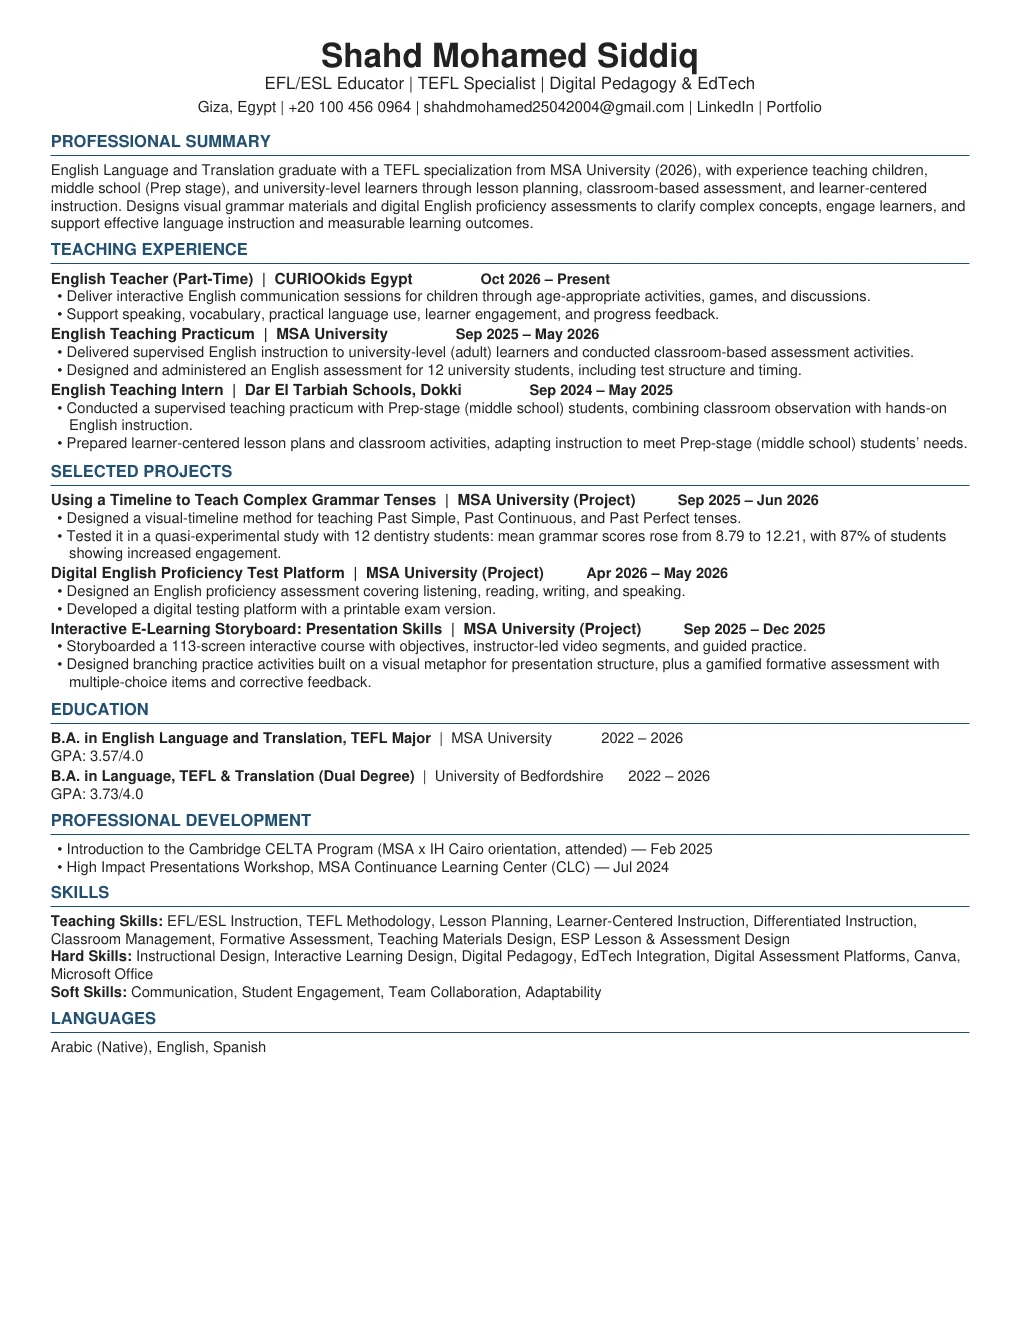
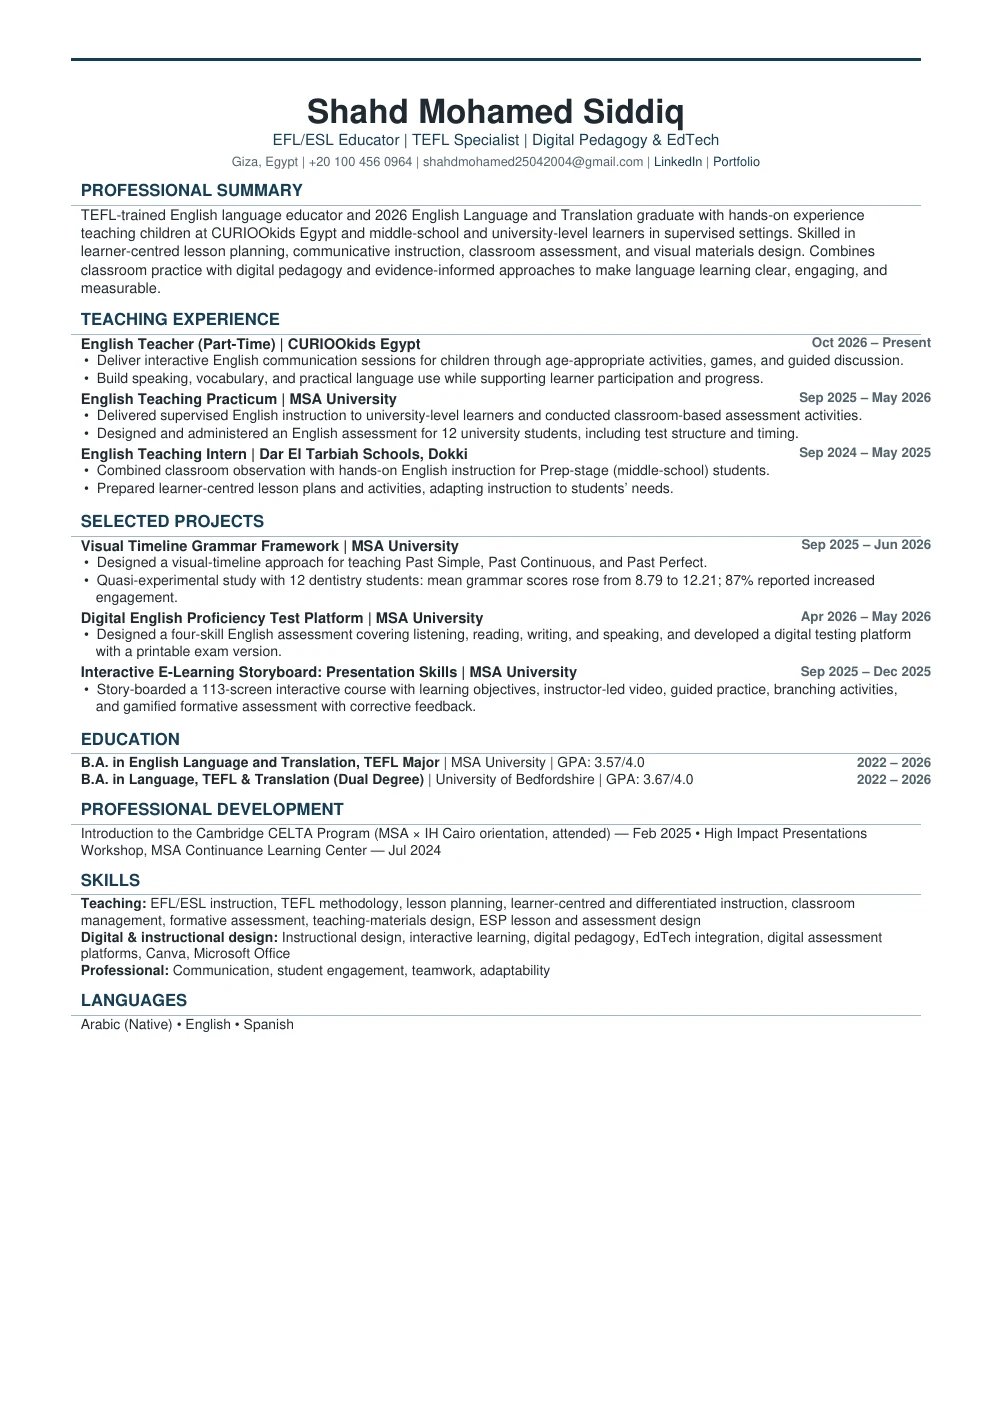
Update CV with current teaching role and corrected GPA (#24)
* Update CV with current teaching role and corrected GPA

* Replace public student ID image with fictional portfolio card

* Restore original portfolio card image

---------

Changed region(s): [[0.0312, 0.0311, 0.9366, 0.8076]]

diff --git a/index.html b/index.html
@@ -3170,7 +3170,7 @@ html[dir="rtl"] .contact-links{justify-content:flex-start;}
       <div class="materials-grid in-view" id="materialsGrid">
         <a class="material-card reveal-item in-view" href="https://drive.google.com/drive/folders/1IlVHD_heQUisdcgzNAmCAjcgaJ_GM0nq" target="_blank" rel="noopener noreferrer"><span class="mname">Certificates</span></a>
         <a class="material-card reveal-item in-view" href="https://drive.google.com/drive/folders/1_SgYq2bi8oCfyzkCNLl3ZWqLtBG197CM" target="_blank" rel="noopener noreferrer"><span class="mname">Feedback</span></a>
-        <a class="material-card reveal-item in-view" href="https://drive.google.com/file/d/16cr1k7iVTIZNDKl5tGr97EFSB0j0kQf6/view?usp=drivesdk" target="_blank" rel="noopener noreferrer"><span class="mname">Resume (CV)</span></a>
+        <a class="material-card reveal-item in-view" href="https://shahdmohamed2004.github.io/portfolio/assets/shahd-cv.pdf" target="_blank" rel="noopener noreferrer"><span class="mname">Resume (CV)</span></a>
         <a class="material-card reveal-item in-view" href="https://drive.google.com/drive/folders/1zHdqDdbPUsbgA7wvTLmoMu3spNnbPXPA" target="_blank" rel="noopener noreferrer"><span class="mname">Research papers</span></a>
         <a class="material-card reveal-item in-view" href="https://drive.google.com/drive/folders/1g0XnzDUJwKrmgcFmbgFSgwUHkl_kAXGK" target="_blank" rel="noopener noreferrer"><span class="mname">Practical Work Videos</span></a>
         <a class="material-card reveal-item in-view" href="https://drive.google.com/drive/folders/1d2hgaLe5ASKrY-Op27gsmu6wMyygF70A" target="_blank" rel="noopener noreferrer"><span class="mname">Projects</span></a>
@@ -3331,7 +3331,7 @@ const SITE = {
 
   // Core links — update these once and every button across the site follows.
   links: {
-    cv: "https://drive.google.com/file/d/16cr1k7iVTIZNDKl5tGr97EFSB0j0kQf6/view?usp=drivesdk",
+    cv: "https://shahdmohamed2004.github.io/portfolio/assets/shahd-cv.pdf",
     portfolioFolder: "https://drive.google.com/drive/folders/1_SgYq2bi8oCfyzkCNLl3ZWqLtBG197CM",
     linkedin: "https://www.linkedin.com/in/shahd-mohamed-5b2525294/",
     email: "shahdmohamed25042004@gmail.com",
@@ -3348,7 +3348,7 @@ const SITE = {
 
   about: {
     photo: "assets/about.webp", // optimized local asset, always renders without a Drive dependency
-    bio: "I am a TEFL graduate currently working part-time as an English Teacher at CURIOOkids Egypt. I am developing practical experience in English language education, instructional design, assessment, and digital learning projects. My academic and practical experience includes English teaching practice, ESP lesson design, active learning, visual instructional materials, and digital educational projects.",
+    bio: "I am a TEFL-trained English language educator and 2026 English Language and Translation graduate, currently working part-time as an English Teacher at CURIOOkids Egypt. My experience spans teaching children, supervised university and middle-school teaching, learner-centred lesson planning, classroom assessment, visual materials, ESP, and digital learning projects.",
   },
 
   whatIDo: [
@@ -3458,7 +3458,7 @@ const SITE = {
   materials: [
     { title: "Certificates", href: "https://drive.google.com/drive/folders/1IlVHD_heQUisdcgzNAmCAjcgaJ_GM0nq" },
     { title: "Feedback", href: "https://drive.google.com/drive/folders/1_SgYq2bi8oCfyzkCNLl3ZWqLtBG197CM" },
-    { title: "Resume (CV)", href: "https://drive.google.com/file/d/16cr1k7iVTIZNDKl5tGr97EFSB0j0kQf6/view?usp=drivesdk" },
+    { title: "Resume (CV)", href: "https://shahdmohamed2004.github.io/portfolio/assets/shahd-cv.pdf" },
     { title: "Research papers", href: "https://drive.google.com/drive/folders/1zHdqDdbPUsbgA7wvTLmoMu3spNnbPXPA" },
     { title: "Practical Work Videos", href: "https://drive.google.com/drive/folders/1g0XnzDUJwKrmgcFmbgFSgwUHkl_kAXGK" },
     { title: "Projects", href: "https://drive.google.com/drive/folders/1d2hgaLe5ASKrY-Op27gsmu6wMyygF70A" }
@@ -3573,7 +3573,7 @@ const SITE_AR = {
 
   about: {
     photo: SITE.about.photo,
-    bio: "أنا خريجة TEFL وأعمل حاليًا معلمة لغة إنجليزية بدوام جزئي في CURIOOkids Egypt. وأسعى إلى تطوير مساري في تعليم اللغة الإنجليزية، مع خبرة أكاديمية وعملية في تصميم دروس ESP، والتعلّم النشط، والمواد التعليمية البصرية، وتصميم التقييم، والمشروعات التعليمية الرقمية."
+    bio: "أنا معلمة لغة إنجليزية مؤهلة بتخصص TEFL وخريجة اللغة الإنجليزية والترجمة لعام 2026، وأعمل حاليًا بدوام جزئي في CURIOOkids Egypt. تشمل خبرتي تدريس الأطفال والتدريب العملي مع طلاب المرحلة الإعدادية والجامعة، وتخطيط الدروس المتمحورة حول المتعلم، والتقييم الصفي، وتصميم المواد البصرية ومشروعات التعلم الرقمي."
   },
 
   whatIDo: [
@@ -3676,7 +3676,7 @@ const SITE_AR = {
   materials: [
     { title: "الشهادات", href: "https://drive.google.com/drive/folders/1IlVHD_heQUisdcgzNAmCAjcgaJ_GM0nq" },
     { title: "التغذية الراجعة", href: "https://drive.google.com/drive/folders/1_SgYq2bi8oCfyzkCNLl3ZWqLtBG197CM" },
-    { title: "السيرة الذاتية (CV)", href: "https://drive.google.com/file/d/16cr1k7iVTIZNDKl5tGr97EFSB0j0kQf6/view?usp=drivesdk" },
+    { title: "السيرة الذاتية (CV)", href: "https://shahdmohamed2004.github.io/portfolio/assets/shahd-cv.pdf" },
     { title: "الأبحاث", href: "https://drive.google.com/drive/folders/1zHdqDdbPUsbgA7wvTLmoMu3spNnbPXPA" },
     { title: "فيديوهات العمل الميداني", href: "https://drive.google.com/drive/folders/1g0XnzDUJwKrmgcFmbgFSgwUHkl_kAXGK" },
     { title: "المشاريع", href: "https://drive.google.com/drive/folders/1d2hgaLe5ASKrY-Op27gsmu6wMyygF70A" }

diff --git a/scripts.bundle.js b/scripts.bundle.js
@@ -732,7 +732,7 @@
       enlarge:'Tap the page for a closer look', zoom:'Read the page or switch to 100% for more detail.',
       error:'The preview could not load. You can still download the original PDF below.',
       alt:'Shahd Mohamed Siddiq — original CV, page 1 of 1',
-      fileTitle:'Shahd Mohamed · CV', info:'PDF · 1 page · 5 KB', page:'Page 1 of 1', fit:'Fit width', full:'100%',
+      fileTitle:'Shahd Mohamed · CV', info:'PDF · 1 page', page:'Page 1 of 1', fit:'Fit width', full:'100%',
       trigger:'Download CV', short:'Preview CV'
     },
     ar: {
@@ -743,7 +743,7 @@
       enlarge:'اضغط على الورقة لقراءة التفاصيل', zoom:'اقرأ الصفحة، أو اختر 100% لتكبير التفاصيل.',
       error:'تعذّر تحميل المعاينة. يمكنك تحميل ملف PDF الأصلي من الزر بالأسفل.',
       alt:'السيرة الذاتية الأصلية لشهد محمد صديق — صفحة ١ من ١',
-      fileTitle:'شهد محمد · السيرة الذاتية', info:'PDF · صفحة واحدة · 46 KB', page:'صفحة ١ من ١', fit:'ملاءمة العرض', full:'100%',
+      fileTitle:'شهد محمد · السيرة الذاتية', info:'PDF · صفحة واحدة', page:'صفحة ١ من ١', fit:'ملاءمة العرض', full:'100%',
       trigger:'تحميل السيرة الذاتية', short:'معاينة السيرة الذاتية'
     }
   };

diff --git a/cv-printer.js b/cv-printer.js
@@ -33,7 +33,7 @@
       enlarge:'Tap the page for a closer look', zoom:'Read the page or switch to 100% for more detail.',
       error:'The preview could not load. You can still download the original PDF below.',
       alt:'Shahd Mohamed Siddiq — original CV, page 1 of 1',
-      fileTitle:'Shahd Mohamed · CV', info:'PDF · 1 page · 46 KB', page:'Page 1 of 1', fit:'Fit width', full:'100%',
+      fileTitle:'Shahd Mohamed · CV', info:'PDF · 1 page', page:'Page 1 of 1', fit:'Fit width', full:'100%',
       trigger:'Print my CV', short:'Preview CV'
     },
     ar: {
@@ -44,7 +44,7 @@
       enlarge:'اضغط على الورقة لقراءة التفاصيل', zoom:'اقرأ الصفحة، أو اختر 100% لتكبير التفاصيل.',
       error:'تعذّر تحميل المعاينة. يمكنك تحميل ملف PDF الأصلي من الزر بالأسفل.',
       alt:'السيرة الذاتية الأصلية لشهد محمد صديق — صفحة ١ من ١',
-      fileTitle:'شهد محمد · السيرة الذاتية', info:'PDF · صفحة واحدة · 46 KB', page:'صفحة ١ من ١', fit:'ملاءمة العرض', full:'100%',
+      fileTitle:'شهد محمد · السيرة الذاتية', info:'PDF · صفحة واحدة', page:'صفحة ١ من ١', fit:'ملاءمة العرض', full:'100%',
       trigger:'اطبع سيرتي الذاتية', short:'معاينة السيرة الذاتية'
     }
   };

diff --git a/tools/build_cv.py b/tools/build_cv.py
@@ -1,0 +1,113 @@
+#!/usr/bin/env python3
+"""Build Shahd Mohamed's one-page, ATS-friendly CV PDF and web preview."""
+from pathlib import Path
+from io import BytesIO
+from reportlab.lib import colors
+from reportlab.lib.enums import TA_CENTER, TA_LEFT, TA_RIGHT
+from reportlab.lib.pagesizes import A4
+from reportlab.lib.styles import ParagraphStyle, getSampleStyleSheet
+from reportlab.lib.units import mm
+from reportlab.platypus import SimpleDocTemplate, Paragraph, Spacer, Table, TableStyle, KeepTogether
+from PIL import Image
+import subprocess
+
+ROOT = Path(__file__).resolve().parents[1]
+ASSETS = ROOT / "assets"
+PDF = ASSETS / "shahd-cv.pdf"
+PREVIEW = ASSETS / "shahd-cv-preview.webp"
+NAVY = colors.HexColor("#173D54")
+INK = colors.HexColor("#202A31")
+MUTED = colors.HexColor("#52636D")
+RULE = colors.HexColor("#9FB6C2")
+
+styles = getSampleStyleSheet()
+styles.add(ParagraphStyle(name="Name", fontName="Helvetica-Bold", fontSize=20, leading=22, alignment=TA_CENTER, textColor=INK, spaceAfter=2))
+styles.add(ParagraphStyle(name="Tagline", fontName="Helvetica", fontSize=9.2, leading=11, alignment=TA_CENTER, textColor=NAVY, spaceAfter=3))
+styles.add(ParagraphStyle(name="Contact", fontName="Helvetica", fontSize=7.7, leading=9, alignment=TA_CENTER, textColor=MUTED, spaceAfter=5))
+styles.add(ParagraphStyle(name="SectionCV", fontName="Helvetica-Bold", fontSize=10, leading=11.8, textColor=NAVY, spaceBefore=7, spaceAfter=3, keepWithNext=True))
+styles.add(ParagraphStyle(name="BodyCV", fontName="Helvetica", fontSize=8.75, leading=11, textColor=INK, spaceAfter=1.2))
+styles.add(ParagraphStyle(name="RoleCV", fontName="Helvetica-Bold", fontSize=8.8, leading=10.3, textColor=INK))
+styles.add(ParagraphStyle(name="DateCV", fontName="Helvetica-Bold", fontSize=8.0, leading=9.7, textColor=MUTED, alignment=TA_RIGHT))
+styles.add(ParagraphStyle(name="BulletCV", fontName="Helvetica", fontSize=8.45, leading=10.25, leftIndent=9, firstLineIndent=-7, bulletIndent=0, textColor=INK, spaceAfter=0.5))
+styles.add(ParagraphStyle(name="SmallCV", fontName="Helvetica", fontSize=8.35, leading=10, textColor=INK, spaceAfter=1))
+
+story = []
+def P(text, style):
+    return Paragraph(text, styles[style])
+def section(label):
+    story.append(P(label.upper(), "SectionCV"))
+    rule = Table([[""]], colWidths=[180*mm], rowHeights=[0.45])
+    rule.setStyle(TableStyle([("BACKGROUND", (0,0), (-1,-1), RULE)]))
+    story.append(rule)
+def role(title, org, date, bullets):
+    head = Table([[P(f"{title}  |  {org}", "RoleCV"), P(date, "DateCV")]], colWidths=[143*mm, 37*mm], hAlign="LEFT")
+    head.setStyle(TableStyle([("VALIGN",(0,0),(-1,-1),"TOP"),("LEFTPADDING",(0,0),(-1,-1),0),("RIGHTPADDING",(0,0),(-1,-1),0),("TOPPADDING",(0,0),(-1,-1),0),("BOTTOMPADDING",(0,0),(-1,-1),0)]))
+    items = [head]
+    for b in bullets:
+        items.append(P("•&nbsp; " + b, "BulletCV"))
+    items.append(Spacer(1, 1.2))
+    story.append(KeepTogether(items))
+
+story += [P("Shahd Mohamed Siddiq", "Name"),
+          P("EFL/ESL Educator  |  TEFL Specialist  |  Digital Pedagogy &amp; EdTech", "Tagline"),
+          P('Giza, Egypt  |  +20 100 456 0964  |  <link href="mailto:shahdmohamed25042004@gmail.com" color="#52636D">shahdmohamed25042004@gmail.com</link>  |  <link href="https://www.linkedin.com/in/shahd-mohamed-5b2525294/" color="#173D54">LinkedIn</link>  |  <link href="https://shahdmohamed2004.github.io/portfolio/" color="#173D54">Portfolio</link>', "Contact")]
+
+section("Professional Summary")
+story.append(P("TEFL-trained English language educator and 2026 English Language and Translation graduate with hands-on experience teaching children at CURIOOkids Egypt and middle-school and university-level learners in supervised settings. Skilled in learner-centred lesson planning, communicative instruction, classroom assessment, and visual materials design. Combines classroom practice with digital pedagogy and evidence-informed approaches to make language learning clear, engaging, and measurable.", "BodyCV"))
+
+section("Teaching Experience")
+role("English Teacher (Part-Time)", "CURIOOkids Egypt", "Oct 2026 – Present", [
+    "Deliver interactive English communication sessions for children through age-appropriate activities, games, and guided discussion.",
+    "Build speaking, vocabulary, and practical language use while supporting learner participation and progress."
+])
+role("English Teaching Practicum", "MSA University", "Sep 2025 – May 2026", [
+    "Delivered supervised English instruction to university-level learners and conducted classroom-based assessment activities.",
+    "Designed and administered an English assessment for 12 university students, including test structure and timing."
+])
+role("English Teaching Intern", "Dar El Tarbiah Schools, Dokki", "Sep 2024 – May 2025", [
+    "Combined classroom observation with hands-on English instruction for Prep-stage (middle-school) students.",
+    "Prepared learner-centred lesson plans and activities, adapting instruction to students’ needs."
+])
+
+section("Selected Projects")
+role("Visual Timeline Grammar Framework", "MSA University", "Sep 2025 – Jun 2026", [
+    "Designed a visual-timeline approach for teaching Past Simple, Past Continuous, and Past Perfect.",
+    "Quasi-experimental study with 12 dentistry students: mean grammar scores rose from 8.79 to 12.21; 87% reported increased engagement."
+])
+role("Digital English Proficiency Test Platform", "MSA University", "Apr 2026 – May 2026", [
+    "Designed a four-skill English assessment covering listening, reading, writing, and speaking, and developed a digital testing platform with a printable exam version."
+])
+role("Interactive E-Learning Storyboard: Presentation Skills", "MSA University", "Sep 2025 – Dec 2025", [
+    "Story-boarded a 113-screen interactive course with learning objectives, instructor-led video, guided practice, branching activities, and gamified formative assessment with corrective feedback."
+])
+
+section("Education")
+for title, school, dates, gpa in [
+    ("B.A. in English Language and Translation, TEFL Major", "MSA University", "2022 – 2026", "3.57/4.0"),
+    ("B.A. in Language, TEFL &amp; Translation (Dual Degree)", "University of Bedfordshire", "2022 – 2026", "3.67/4.0"),
+]:
+    row = Table([[P(f"<b>{title}</b>  |  {school}  |  GPA: {gpa}", "SmallCV"), P(dates, "DateCV")]], colWidths=[143*mm,37*mm], hAlign="LEFT")
+    row.setStyle(TableStyle([("VALIGN",(0,0),(-1,-1),"TOP"),("LEFTPADDING",(0,0),(-1,-1),0),("RIGHTPADDING",(0,0),(-1,-1),0),("TOPPADDING",(0,0),(-1,-1),0),("BOTTOMPADDING",(0,0),(-1,-1),0)]))
+    story.append(row)
+
+section("Professional Development")
+story.append(P("Introduction to the Cambridge CELTA Program (MSA × IH Cairo orientation, attended) — Feb 2025  •  High Impact Presentations Workshop, MSA Continuance Learning Center — Jul 2024", "SmallCV"))
+section("Skills")
+story.append(P("<b>Teaching:</b> EFL/ESL instruction, TEFL methodology, lesson planning, learner-centred and differentiated instruction, classroom management, formative assessment, teaching-materials design, ESP lesson and assessment design<br/><b>Digital &amp; instructional design:</b> Instructional design, interactive learning, digital pedagogy, EdTech integration, digital assessment platforms, Canva, Microsoft Office<br/><b>Professional:</b> Communication, student engagement, teamwork, adaptability", "SmallCV"))
+section("Languages")
+story.append(P("Arabic (Native)  •  English  •  Spanish", "SmallCV"))
+
+def decorate(canvas, doc):
+    canvas.saveState()
+    canvas.setFillColor(NAVY)
+    canvas.rect(doc.leftMargin, A4[1]-13*mm, doc.width, 2.2, stroke=0, fill=1)
+    canvas.restoreState()
+
+ASSETS.mkdir(parents=True, exist_ok=True)
+doc = SimpleDocTemplate(str(PDF), pagesize=A4, rightMargin=15*mm, leftMargin=15*mm, topMargin=17*mm, bottomMargin=13*mm, title="Shahd Mohamed Siddiq — CV", author="Shahd Mohamed Siddiq", subject="EFL/ESL Educator | TEFL Specialist")
+doc.build(story, onFirstPage=decorate, onLaterPages=decorate)
+# Render the first page to a crisp, proportionate WebP used by the portfolio CV preview.
+subprocess.run(["pdftoppm", "-f", "1", "-l", "1", "-singlefile", "-png", "-r", "120", str(PDF), "/tmp/shahd-cv-preview"], check=True, stdout=subprocess.DEVNULL)
+with Image.open("/tmp/shahd-cv-preview.png") as im:
+    im.save(PREVIEW, "WEBP", quality=88, method=6)
+print(f"Wrote {PDF} and {PREVIEW}")
